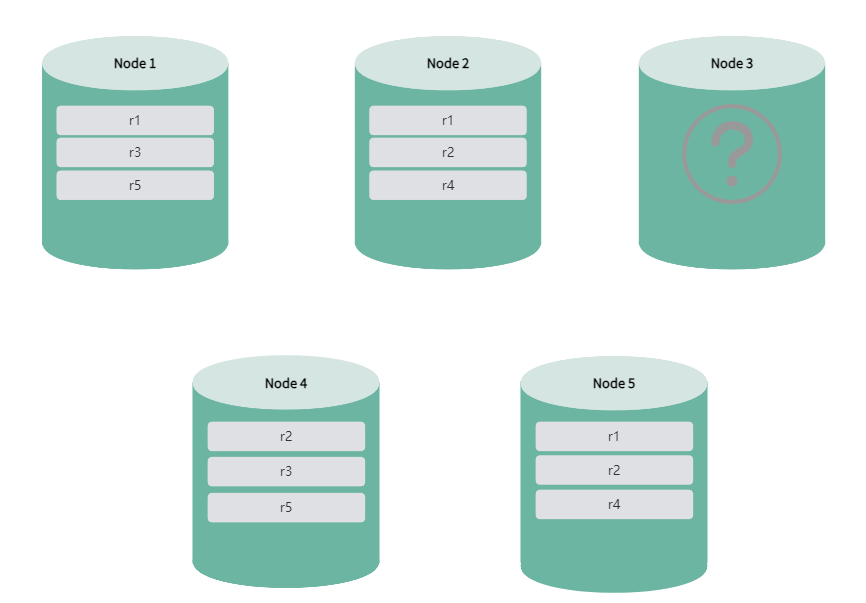
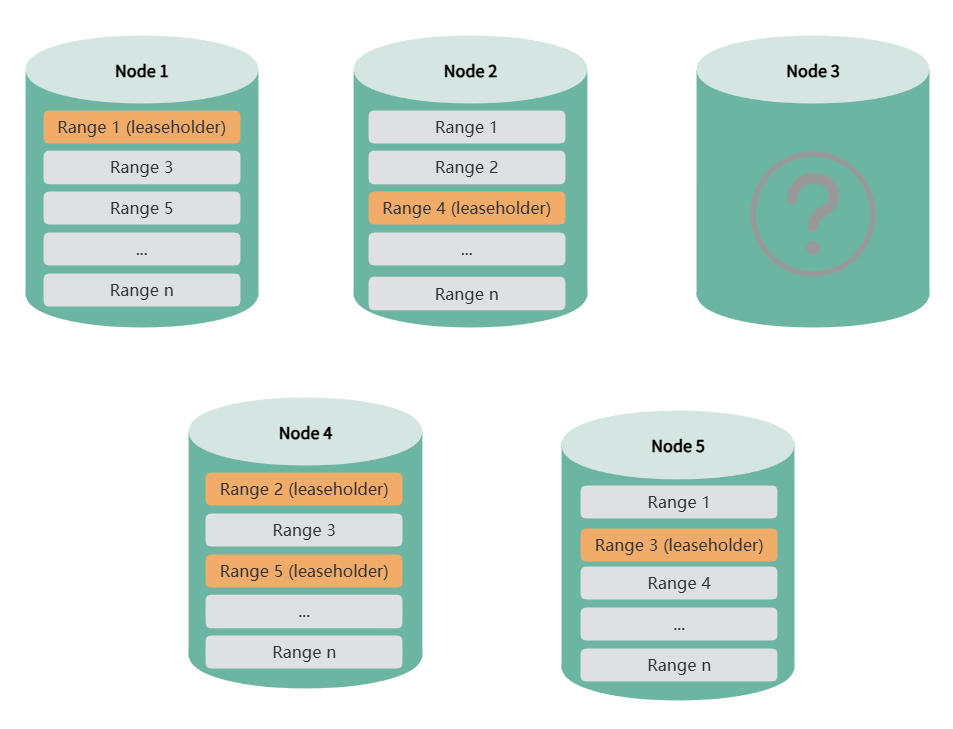
commit-message: update ha

diff --git a/db-operation/cluster-ha.md b/db-operation/cluster-ha.md
@@ -13,49 +13,97 @@ id: cluster-ha
 
 ## 多副本集群高可用
 
-KWDB 多副本集群默认采用 3 副本机制。为了确保系统在节点发生故障后仍能够提供服务，集群通过多数投票机制保证数据一致性和可用性，因此至少需要 2 个副本保持可用状态。
+### 概述
+
+KWDB 多副本集群具备高可用能力，能够实现故障转移和数据强一致性。集群中的各节点通过定期的心跳机制维护连接和状态，以便及时发现故障并采取相应措施。
+
+KWDB 多副本集群默认采用 3 副本机制，通过 RAFT 协议保证数据一致性和可用性，因此至少需要 2 个副本保持可用状态。
+
+### 基础概念
+
+| 概念                  | 描述                                                         |
+| :-------------------- | :----------------------------------------------------------- |
+| 数据分片（Range）     | KWDB 将所有用户数据（表、索引等）和几乎所有系统数据存储在键值对的排序映射中。这个键空间被划分为多个数据分片，每个键始终可以在单个数据分片内找到。数据分片是集群高可用性和数据迁移的最小单元。 |
+| 副本（Replica）       | 每个用户数据分片默认有 3 个副本，以保证高可用性。数据迁移时，以分片副本为单位进行迁移。 |
+| 主副本（Leaseholder） | 每个分片的主副本，负责处理该分片的读写请求。主副本通过 RAFT 协议选举产生，确保数据一致性。 |
+| 节点状态              | KWDB 中的集群节点存在以下状态：<br>- 存活节点：默认节点状态，表示节点正常运行<br>- 异常节点：1 分钟内无网络连接的节点会被标记为异常节点<br>- 不可用节点：默认 30 分钟内无网络连接的节点将被标记为不可用节点，触发数据副本补足机制 <br><br>**提示:** 用户可通过 KWDB 监控平台和 `kwbase node status` 命令查看集群内的节点状态 |
+
+### 机制说明
 
 以下以 5 节点集群为例，说明 KWDB 多副本集群如何实现高可用性。
 
-- **正常运行**：KWDB 集群启动后，副本和 leaseholder 均匀分布在所有节点上，确保数据的高可用性和平衡性。
+#### 正常运行
 
-  ![img](../static/db-operation/cluster-start.png)
+KWDB 集群启动后，分片副本均匀分布在所有节点上，确保数据的高可用性和负载均衡。
 
-- **单节点异常**：如果单个节点因网络断开、延迟、操作系统故障、磁盘故障等原因导致节点状态变为异常（`is_available` 和 `is_live` 均为 `false`），系统会开始迁移该节点的 leaseholder，迁移期间数据查询可能受影响，时序索引相关的 DDL 操作可能会报错，生命周期会顺延至下一执行周期执行。待节点恢复为可用状态后恢复正常。
+<img src="../static/db-operation/cluster-start.png" alt="img" style="zoom:50%;" />
 
-  ![img](../static/db-operation/unhealthy.png)
+#### 单节点故障
 
-- **单节点故障**：节点离线时间达到设定值后，系统会将该节点标记为不可用。如果剩余节点数量仍大于副本数，系统自动补足缺失的副本，确保数据的高可用性、副本补足期间，数据查询和 DML 操作不受影响，时序索引相关的 DDL 操作可能会报错，待副本补足后恢复正常。
+单个节点离线后，如果该节点存在某分片的主副本，系统会自动从该分片在其他节点上的副本中重新选出新的主副本，以确保数据服务的连续性及数据一致性。
 
-  ![img](../static/db-operation/dead.png)
+在主副本重新选举期间，集群可以正常提供服务，DDL 和 DML 操作均可正常执行。对于查询操作，只有当正在执行的查询语句涉及故障节点时，该语句才会执行失败。此时应用可以立即重新发起查询，系统能够正常响应并提供服务。
 
-- **节点恢复**：不可用节点恢复后，系统会将副本和 leaseholder 回迁到该节点，迁移期间数据查询可能受影响，时序索引相关的 DDL 操作可能会报错，生命周期会顺延至下一执行周期执行。待节点恢复为可用状态后恢复正常。
-  
-  ![img](../static/db-operation/recover.png)
-- **多节点故障**：如果两个或更多节点出现故障，由于剩余节点数小于或等于副本数，系统无法补足缺失的副本，可能导致部分数据无法访问，甚至出现集群无法使用的情况。
+<img src="../static/db-operation/unhealthy.png" alt="img" style="zoom:60%;" />
 
-  ![img](../static/db-operation/cluster-dead.png)
+节点离线超过 1 分钟后，系统会将其标记为异常节点。节点离线时间达到设定值（默认为 30 分钟）后，系统会将该节点标记为不可用节点。如果剩余节点数量仍大于副本数，如图示中剩余 4 节点，但集群副本数为 3，此时系统自动补足缺失的副本，确保数据的高可用性。副本补足期间，数据查询、DDL 和 DML 操作均不受影响。
+
+<img src="../static/db-operation/dead.png" alt="img" style="zoom:67%;" />
+
+异常节点或不可用节点恢复后，系统会自动进行数据同步或数据补齐。节点恢复期间，数据查询、DDL 和 DML 操作均不受影响。
+
+#### 多节点故障
+
+##### 依次故障
+
+如果两个节点依次发生故障，当第二个节点发生故障前系统已完成副本补足，则第二个节点发生故障后，系统仍支持正常运行。
+
+<img src="../static/db-operation/recover.png" alt="img" style="zoom:75%;" />
+
+##### 同时故障
+
+如果两个或更多节点同时出现故障，由于剩余节点数小于或等于副本数，系统无法补足缺失的副本，可能导致部分数据无法访问，甚至出现集群无法使用的情况。
+
+<img src="../static/db-operation/cluster-dead.png" alt="img" style="zoom:75%;" />
 
 ::: warning 说明
 
-- **版本升级影响**：KWDB 2.0 版本使用导入导出方式升级到 2.0.4 版本后，多副本集群的高可用性可能会受到影响。
-- **节点故障影响**：
-  - 集群节点多次发生故障后重新加入，可能会导致数据写入缓慢。
-  - 集群节点故障或故障节点恢复后的 leaseholder 迁移可能导致读写短暂不可用或卡顿。
+- KWDB 2.0 版本使用导入导出方式升级到 2.0.4 版本后，多副本集群的高可用性可能会受到影响。
+- 集群节点多次发生故障后重新加入，可能会导致数据写入缓慢。
 - 可通过重试机制解决因 `update tag` 失败导致不同节点查询普通标签时的不一致问题。
 
 :::
 
-## 高可用相关操作
+### 相关操作
 
-### 故障节点标记
+#### 配置不可用节点判定时间
 
-默认情况下，如果一个节点在集群中离线时间超过 30 分钟，系统会将其标记为不可用，并将该节点上的数据副本重新分配到其他节点，以确保数据的可用性和一致性。
+默认情况下，如果一个节点的离线时间超过 30 分钟，系统会将其标记为不可用节点，并将该节点上的数据副本重新分配到其他节点，以确保数据的可用性和一致性。
 
-用户也可以通过以下 SQL 命令设置节点死亡时间：
+用户也可以通过以下 SQL 命令设置节点判定时间：
 
 ```SQL
 SET CLUSTER SETTING server.time_until_store_dead = <value>;
 ```
 
-设置时间建议不小于 75s。注意：延长节点死亡判定时间，可以减少节点故障对集群性能的长时间影响，但可能会影响集群的高可用性功能和 DDL 相关操作。
+设置时间建议不小于 75s。注意：延长节点判定时间，可以减少节点故障对集群性能的长时间影响，但可能会影响集群的高可用性功能和 DDL 相关操作。
+
+#### 查看节点状态
+
+使用 `kwbase` 命令查询节点状态:
+
+  ```shell
+  <kwbase_path>/kwbase node status [--host=<ip:port>] [--insecure | --certs-dir=<path>]
+  ```
+
+`is_available` 和 `is_live` 均为 `true` 表示节点正常运行，均为 `false` 表示节点异常。
+
+#### 查看副本补足状态
+
+使用 SQL 命令查询是否存在副本不足或不可用分片:
+
+  ```SQL
+  SELECT sum((metrics->>'ranges.unavailable')::DECIMAL)::INT AS ranges_unavailable,
+      sum((metrics->>'ranges.underreplicated')::DECIMAL)::INT As ranges_underreplicated
+  FROM kwdb_internal.kv_store_status;
+  ```
